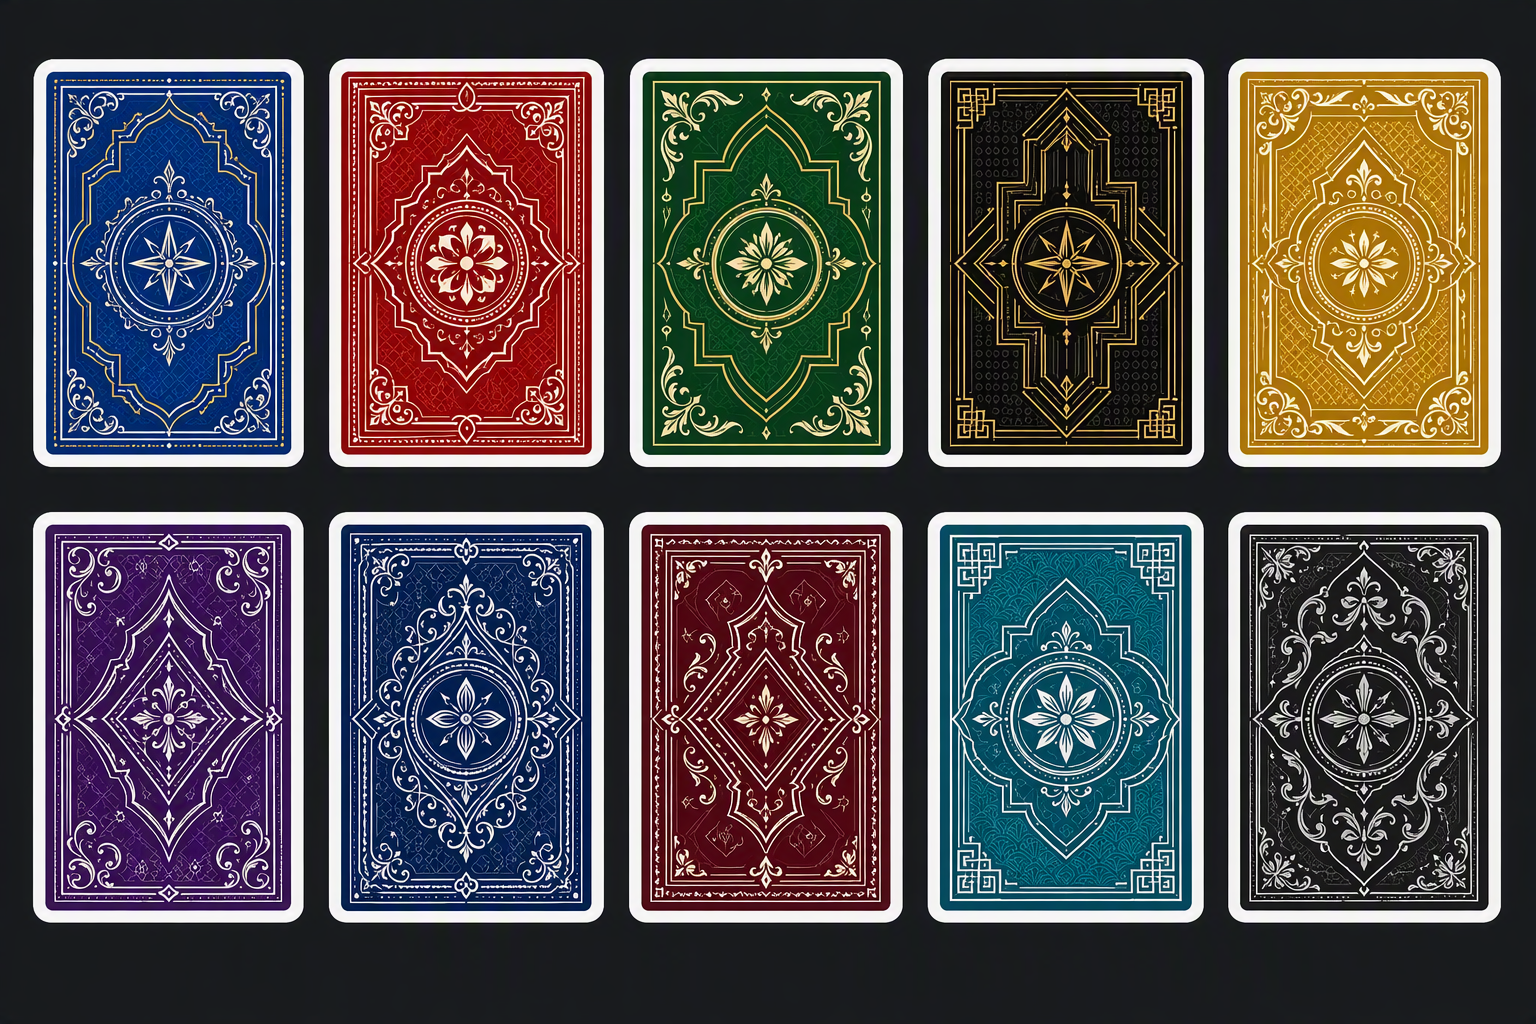
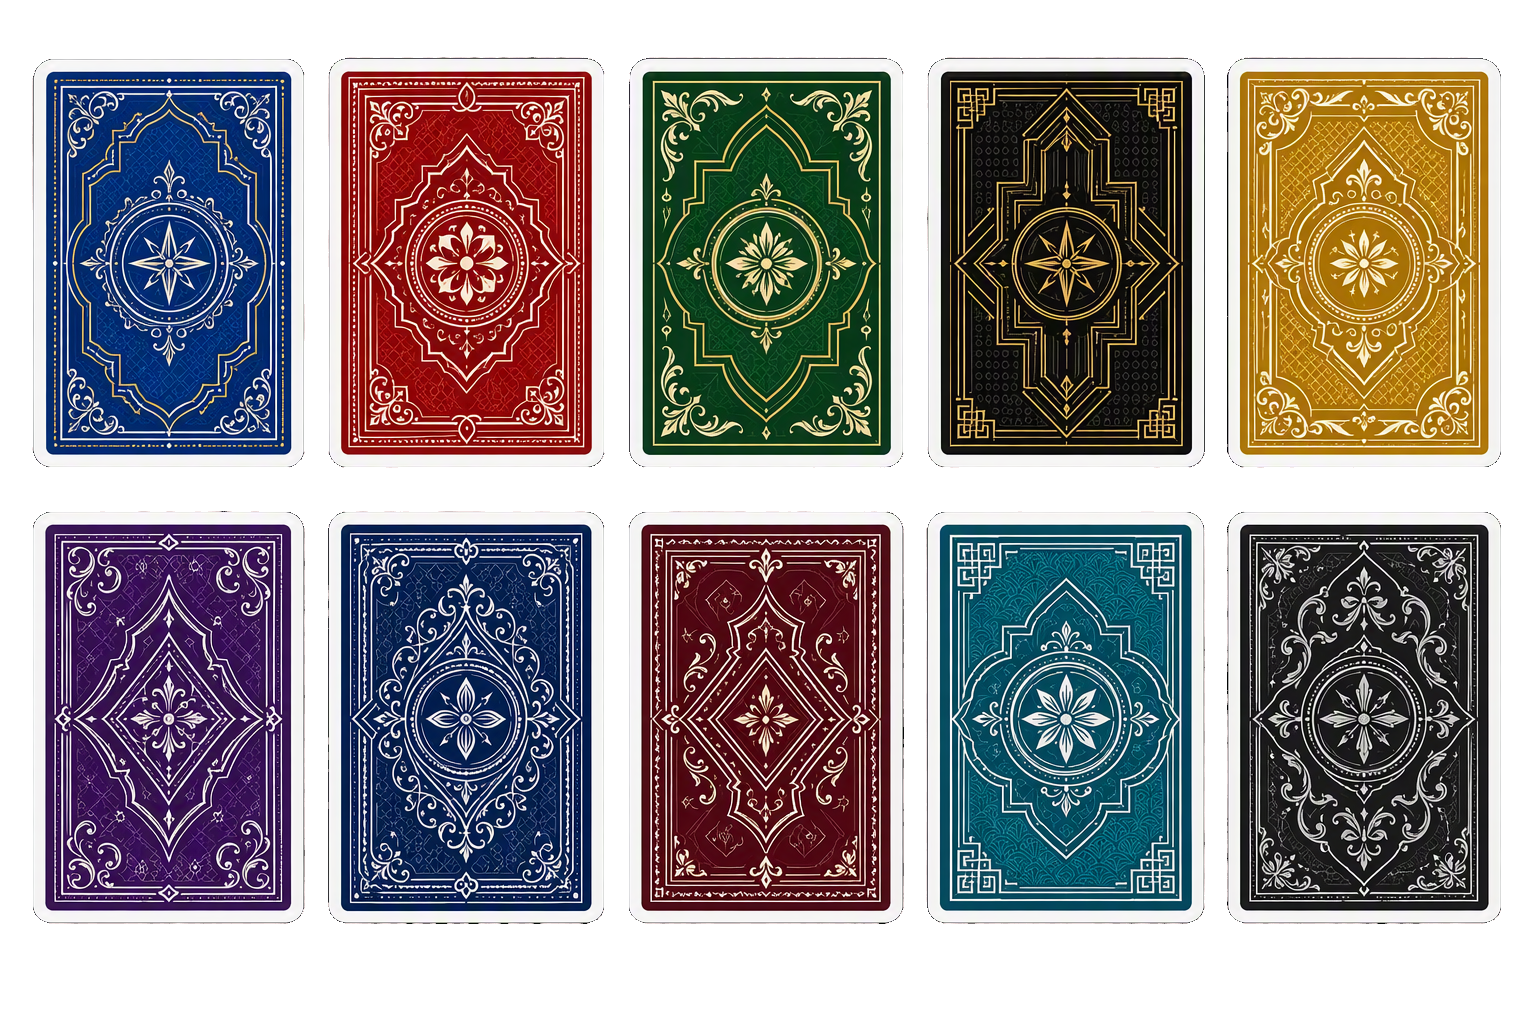
Start the table session with a credit grant and a face-down deck.
Lock classic Blackjack rules in context, fix CardUI so it can show a cropped back, and reveal credit plus the pile only after OK.

Changed region(s): [[0.0, 0.0, 1.0, 1.0]]

diff --git a/CONTEXT.md b/CONTEXT.md
@@ -6,7 +6,74 @@ Blackjack for mobile and desktop, built in Godot 4.7. This file records the curr
 
 ## Goal
 
-Ship a full Blackjack game that plays the same on a phone (tap) and on desktop (mouse). Right now this is a scaffold: a menu, a table, deck generation, and a card UI stub. There is no gameplay round yet (bets, deal, Hit/Stand, dealer, result).
+Ship a Blackjack game that plays the same on a phone (tap) and on desktop (mouse). First ship a **classic table prototype**. A **Duel** mode (alternating hits, late raise) is a later, separate mode — do not mix those rules into the prototype.
+
+## Game concept (locked)
+
+Classic Blackjack, one player vs a computer dealer. Locked for the first playable prototype. Change this section only if the rules change on purpose.
+
+### Bank and bets
+
+- Player starts a session with **$100**.
+- Before each round the player picks a bet: **$10 / $25 / $50**.
+- Bet cannot exceed remaining credit. If credit is **$0**, the session ends (or offer a refill later — not in v1).
+- Payouts for v1: win pays **1:1**, natural Blackjack also **1:1**, push returns the bet. 3:2 on Blackjack can wait.
+
+### Visibility (who sees what)
+
+- Player cards are **face up**. The player must see their hand. Showing them on the table is fine and matches a shoe game.
+- Dealer: one card **face up**, one **hole card** face down until the dealer plays / the round resolves.
+- The player sees the dealer's up card and never the hole card until reveal.
+- Fair dealer means the AI **does not read the player's hand**. It only uses its own total and the house rule. Do not hide the player's cards from the screen to achieve that.
+
+### Deal
+
+- After the bet: two cards to the player (face up), two to the dealer (one up, one down).
+- Deck is `Array[CardData]`. Instantiate `CardUI` only for cards that leave the deck.
+
+### Natural Blackjack
+
+- Ace + 10-value on the **first two cards** is a natural.
+- If the player has a natural and the dealer does not → player wins immediately (no Hit/Stand).
+- If both have a natural → push.
+- If only the dealer has a natural → player loses immediately.
+- 21 from three or more cards is not a natural.
+
+### Player turn
+
+- Actions: **Hit** or **Stand** only.
+- Player hits until they stand or bust (**total > 21**).
+- Bust → player loses immediately. Dealer does not play.
+- No Double, Split, Insurance, or late raise in this mode.
+
+### Dealer turn
+
+- Runs only if the player stood without busting.
+- Hole card is revealed, then the dealer plays.
+- House rule: **hit while total is below 17**, **stand on 17 or more** (including soft 17 for v1).
+- Dealer AI must not inspect player cards or player total.
+
+### Scoring
+
+- Ace counts as **11**, or **1** when 11 would bust (soft/hard Ace).
+- After both have finished: higher total **≤ 21** wins.
+- Same total → **push**.
+- If the dealer busts and the player did not → player wins.
+
+### Round loop
+
+1. Choose bet (if credit allows).
+2. Deal.
+3. Resolve naturals if any.
+4. Player Hit/Stand (or already lost on bust).
+5. Dealer plays if needed.
+6. Compare, pay, return cards / rebuild the deck as needed.
+7. Next round.
+
+### Out of scope (later)
+
+- **Duel mode:** alternating Hit/Stand, then a late raise (nothing / +10 / +25 / +50 / ×2). Separate rules, separate flow.
+- Split, Insurance, Double Down, 3:2 Blackjack, multi-deck shoe, chip animations.
 
 ## Engine and settings
 
@@ -29,10 +96,12 @@ Ship a full Blackjack game that plays the same on a phone (tap) and on desktop (
 ### Table (`main_level.tscn` + `main_level.gd`)
 
 - Full-screen table background `assets/table.png`.
-- **TO MENU** → back to `menu.tscn`.
+- **TO MENU** (top-right) → back to `menu.tscn`.
 - Child node `DeckManager` uses `scripts/deck_manager.gd`.
 - Entering the scene generates the deck and shuffles it immediately (`DeckManager._ready`).
-- No hands, score, chips, or action buttons on the table yet.
+- Session start: modal confirms **$100** starting credit. OK awards `credit`, shows **Credit: $N** top-left, and reveals the face-down deck pile (right side, `card_back.tres`).
+- Credit stays `0` until OK. The overlay blocks the table until then.
+- No hands, bet chips, or Hit/Stand yet.
 
 ### Card data (`scripts/card_data.gd`)
 
@@ -61,10 +130,11 @@ Ace is always 11. Soft/hard Ace (11 ↔ 1) is not implemented.
 
 `CardUI` class (`Control`):
 
-- `data: CardData` updates the texture.
-- `is_face_up` toggles face / back `assets/cards/cards-back.png`.
+- Scene root is `CardUI` (`Control`) with `card_ui.gd`. Child `TextureRect` draws the face or back.
+- Fixed size `120×223` (`CARD_SIZE`) — same aspect as one cell of `card-deck.png`.
+- Face texture comes from `CardData.texture` (cut in `DeckManager`).
+- Back texture is `assets/cards/card_back.tres` (`AtlasTexture` over `cards-back.png`). Region is already cropped in the editor.
 - `card_pressed(card: CardUI)` fires on left click; on mobile a tap arrives as the same left-button event.
-- **Scene is incomplete:** `card_ui.tscn` has no child `TextureRect`, but the script expects `$TextureRect`. Instantiating it as-is will fail.
 - No card is spawned on the table yet.
 
 ## Assets
@@ -74,19 +144,21 @@ Ace is always 11. Soft/hard Ace (11 ↔ 1) is not implemented.
 | `assets/bj_logo.png` | Menu logo |
 | `assets/table.png` | Table background |
 | `assets/cards/card-deck.png` | 13×4 face spritesheet |
-| `assets/cards/cards-back.png` | Card back |
+| `assets/cards/cards-back.png` | Card-back spritesheet (several designs) |
+| `assets/cards/card_back.tres` | AtlasTexture for one cropped card back |
 | `icon.svg` | Project icon (Godot default) |
 
 Keep the matching `.import` files in git. Compiled `.ctex` files live under `.godot/` and stay out of the repo.
 
 ## What is not done yet
 
-- Deal to player and dealer, including the dealer's hole card.
-- Hit / Stand / Double / Split / Insurance buttons.
-- Scoring, soft Ace, Blackjack, Bust, Push.
-- Bets, bankroll, chips.
+- Round flow from the locked concept: bet → deal → naturals → Hit/Stand → dealer rule → payout.
+- Soft Ace (11 ↔ 1), bust, push, natural vs 21 from extra cards.
+- Bet buttons ($10 / $25 / $50) after the deck is on the table.
+- Spawn `CardUI` only for dealt cards; dealer hole card uses `is_face_up = false`.
 - Deal and flip animations.
 - Adaptive layout for portrait/landscape (buttons use absolute offsets).
+- Duel mode.
 - Audio, localization, saves.
 - Export presets for Android / iOS / desktop.
 
@@ -109,9 +181,12 @@ menu.tscn          ← entry point
 
 main_level.tscn
   ├─ TextureRect (table)
+  ├─ CreditLabel (hidden until OK)
   ├─ Button TO MENU → menu.tscn
-  └─ DeckManager (scripts/deck_manager.gd)
-       └─ generate + shuffle 52 CardData
+  ├─ DeckPile (hidden until OK, card_back.tres)
+  ├─ DeckManager (scripts/deck_manager.gd)
+  │    └─ generate + shuffle 52 CardData
+  └─ CreditDialog → OK awards $100, shows credit + deck
 ```
 
 ## Conventions for later work
@@ -121,8 +196,9 @@ main_level.tscn
 - Commit `*.gd.uid` and `*.import` next to their sources. Do not gitignore `*.uid`.
 - Do not commit `.godot/`.
 - Wire input through `_gui_input` / button signals so tap and click behave the same.
-- Keep Blackjack rules out of menu scenes. Deal and scoring belong in scripts next to `scripts/`.
-- Next sensible step: fix `card_ui.tscn` (add `TextureRect`), teach the deck to deal a card, lay out two hands, and hook Hit/Stand.
+- Keep Blackjack rules out of menu scenes. Deal, scoring, and dealer AI belong in scripts next to `scripts/`.
+- Dealer AI may use only the dealer hand and the hit-below-17 rule.
+- Next sensible step: bet buttons ($10 / $25 / $50), then deal two hands from the pile.
 
 ## Git
 
